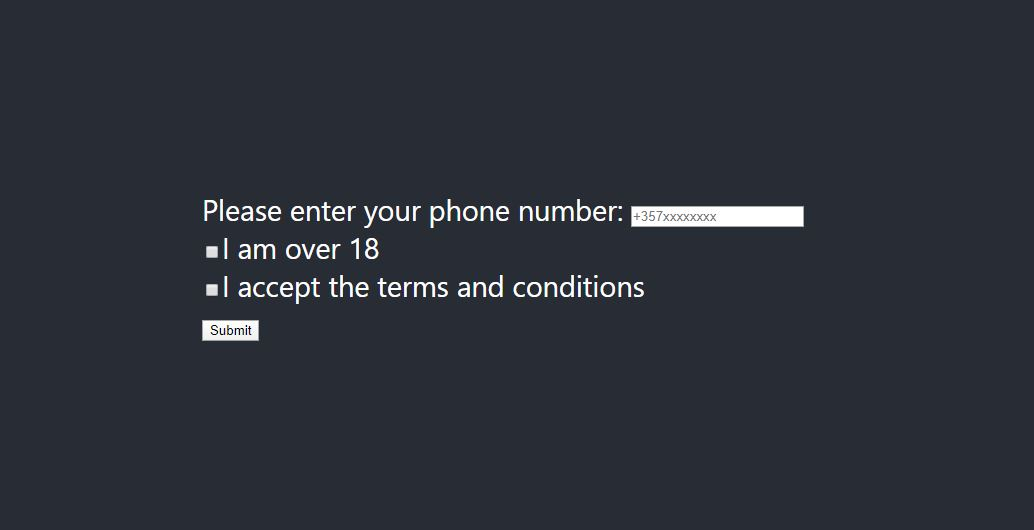
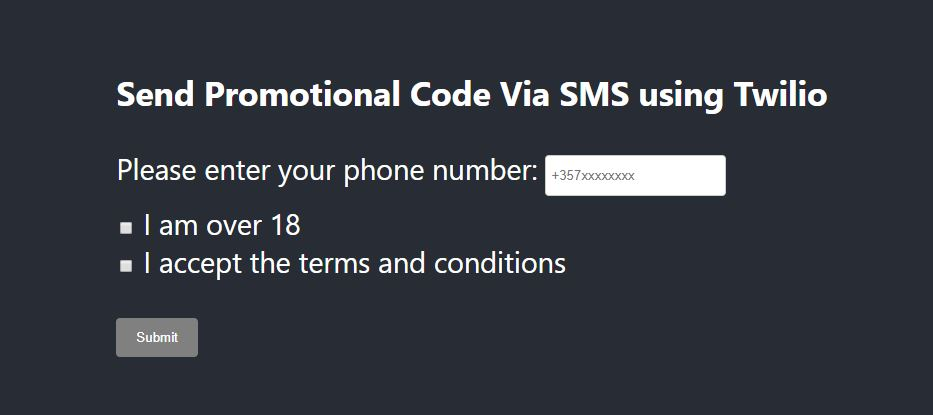
Some minor changes/Simple CSS styling

diff --git a/src/App.js b/src/App.js
@@ -9,8 +9,8 @@ export function App() {
     const [over18, setOver18] = useState(false);
     const [acceptedTerms, setAcceptedTerms] = useState(false);
 
-    const handleSubmit = (evt) => {
-      evt.preventDefault();
+    const handleSubmit = (event) => {
+      event.preventDefault();
       axios.post(`/api/sms-promotion`, { phoneNumber }, { timeout: 5000 })
       .then((response) => {
         setResponseText(response.data)
@@ -23,6 +23,7 @@ export function App() {
       <div>
         <header className="App-header">
           <form onSubmit={handleSubmit}>
+          <center><h3>Send Promotional Code Via SMS using Twilio</h3></center>
             <label>Please enter your phone number: </label>
             <input
               id="phoneNumber"
@@ -34,21 +35,21 @@ export function App() {
               onChange={e => setPhoneNumber(e.target.value)}
             /><br/>
             <input 
-            type="checkbox" 
-            name="over18" 
-            required 
-            value={over18} 
-            onChange={e => setOver18(e.target.checked)}
+              type="checkbox" 
+              name="over18" 
+              required 
+              value={over18} 
+              onChange={e => setOver18(e.target.checked)}
             />
-            I am over 18 <br/>
+            <label>I am over 18</label><br/>
             <input 
-            type="checkbox" 
-            name="acceptedTerms" 
-            required 
-            value={acceptedTerms} 
-            onChange={e => setAcceptedTerms(e.target.checked)}
+              type="checkbox" 
+              name="acceptedTerms" 
+              required 
+              value={acceptedTerms} 
+              onChange={e => setAcceptedTerms(e.target.checked)}
             />
-            I accept the terms and conditions <br/>
+            <label>I accept the terms and conditions</label> <br/> <br/>
             <button type="submit">Submit</button>
           </form>
           <p>{responseText}</p>

diff --git a/src/App.css b/src/App.css
@@ -8,3 +8,28 @@
   font-size: calc(10px + 2vmin);
   color: white;
 }
+
+input[type='checkbox'] {  margin-right: 10px; }
+
+input[type=text] {
+  padding: 12px 5px;
+  margin: 8px 0;
+  display: inline-block;
+  border: 1px solid #ccc;
+  border-radius: 4px;
+  box-sizing: border-box;
+}
+
+button[type=submit] {
+  background-color: gray;
+  color: white;
+  padding: 12px 20px;
+  border: none;
+  border-radius: 4px;
+  cursor: pointer;
+  float: left;
+}
+
+button[type=submit]:hover {
+  background-color: lightslategray;
+}
